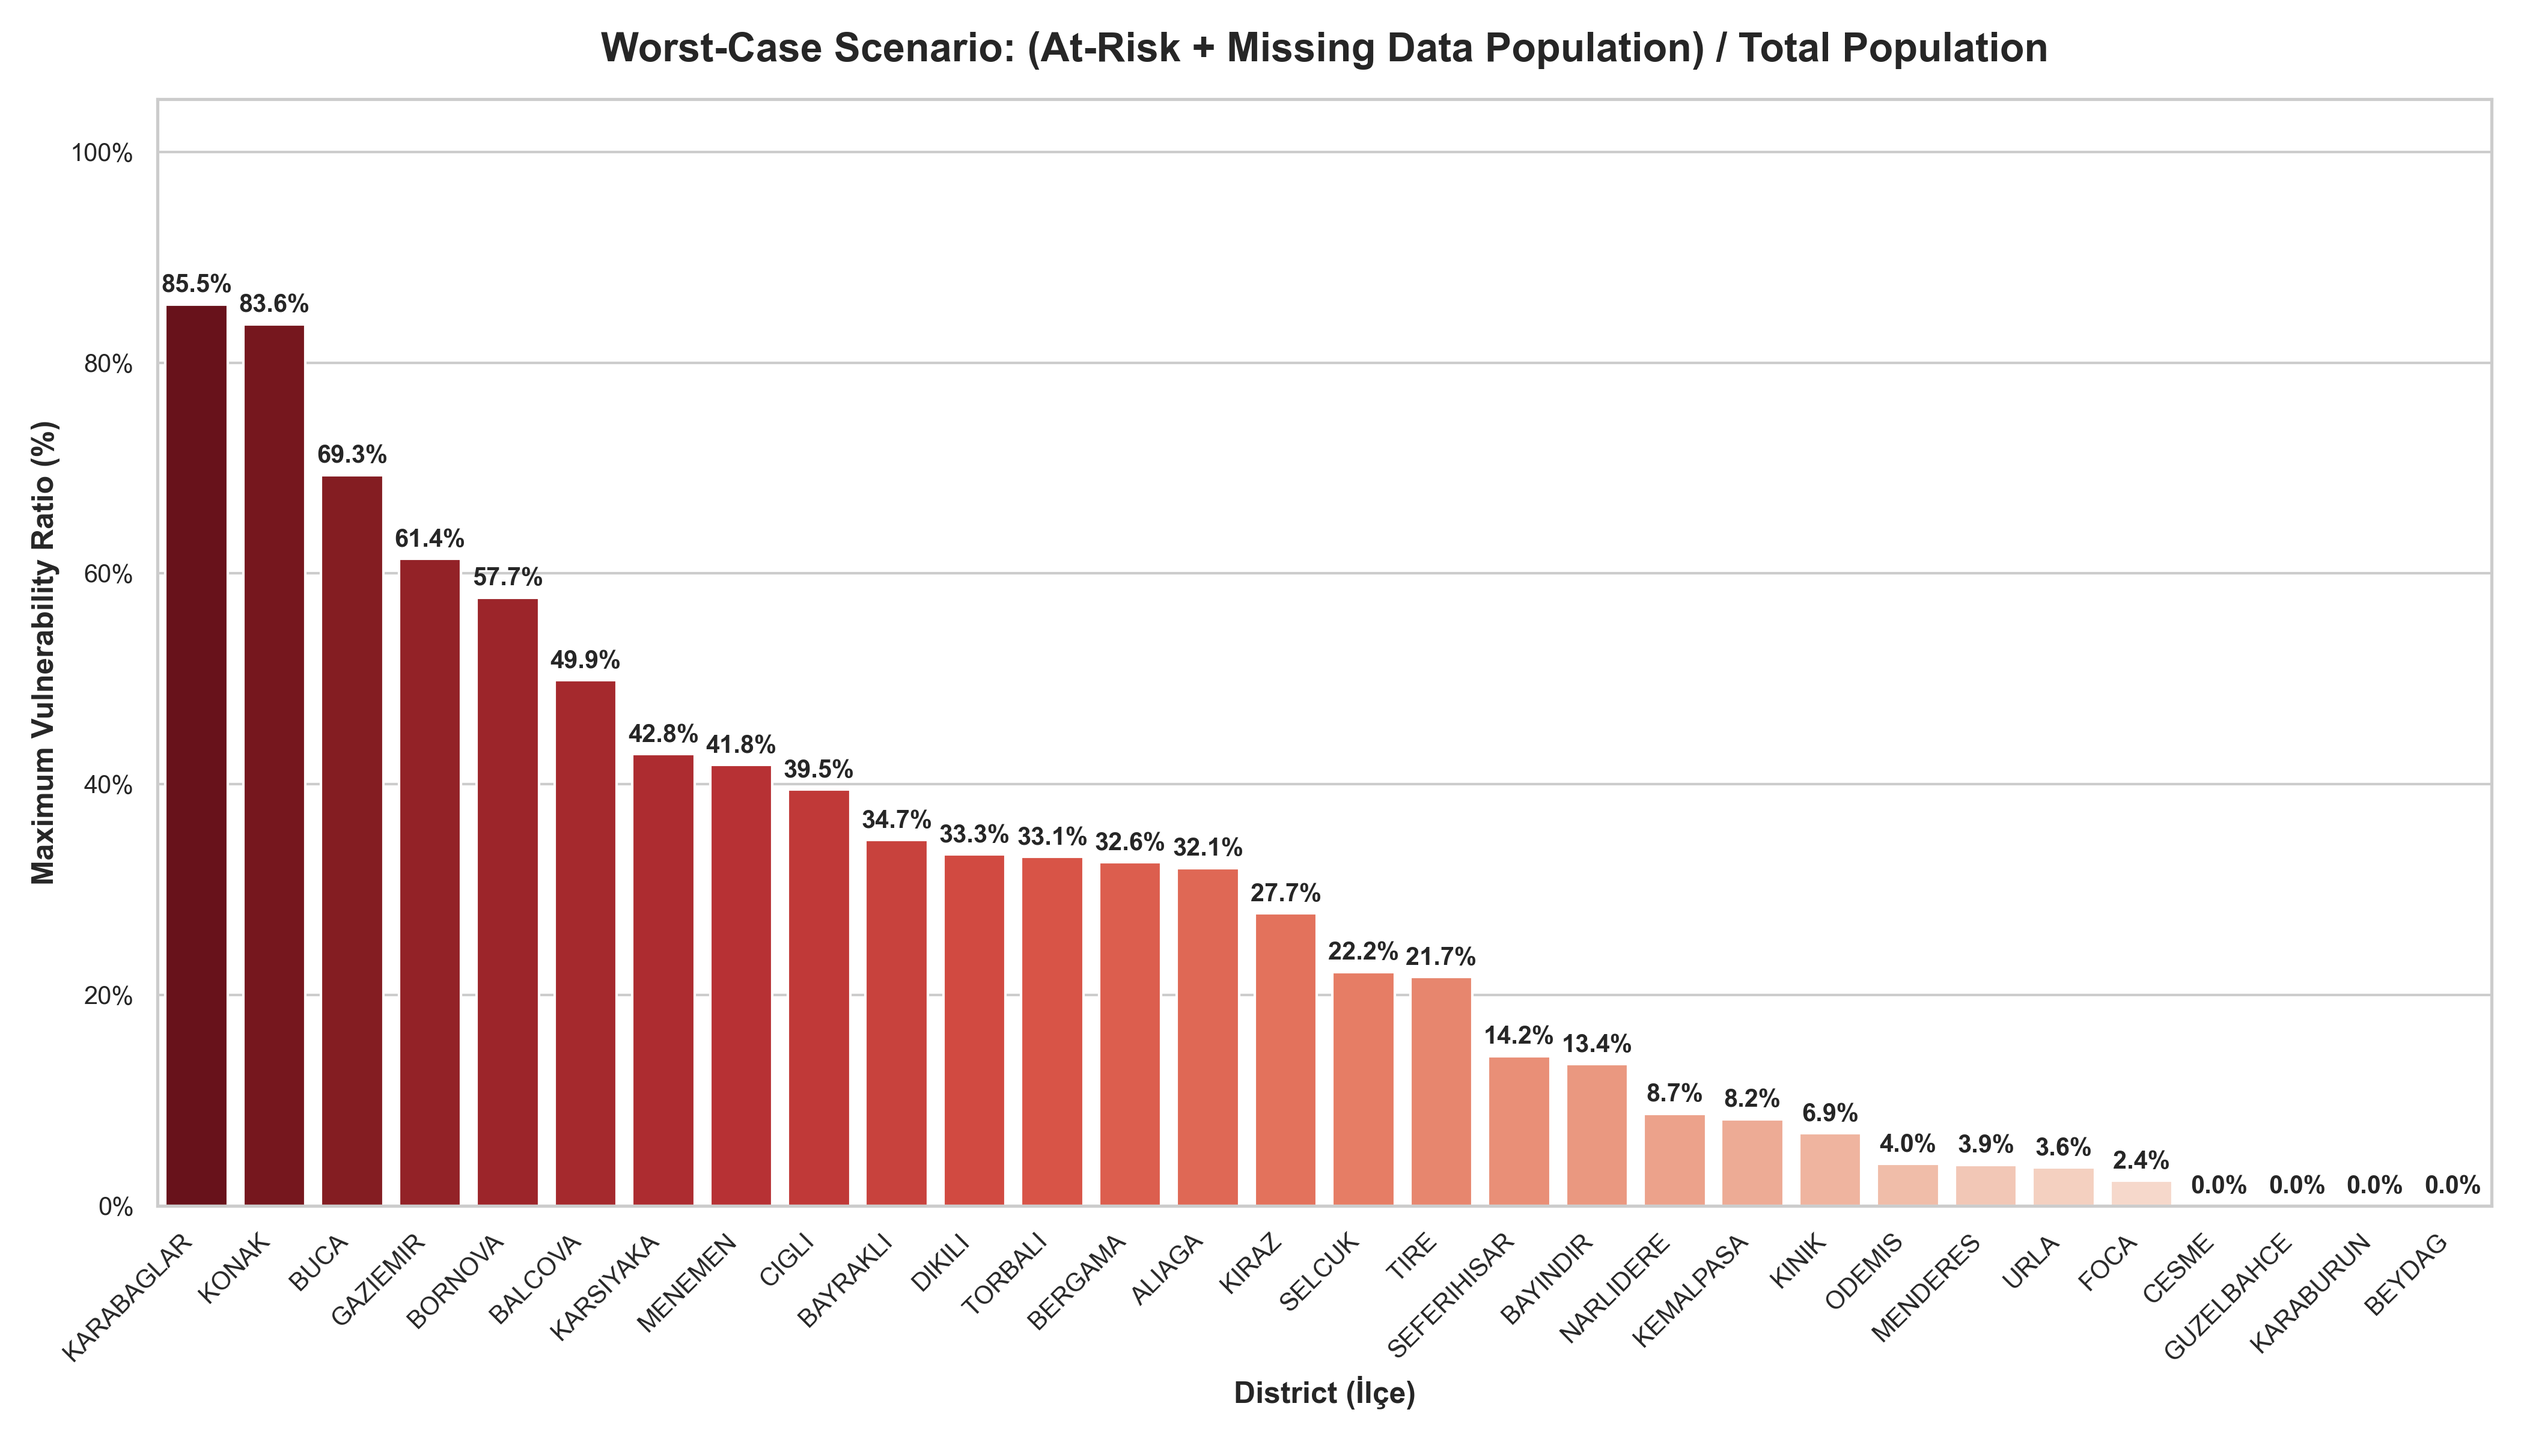
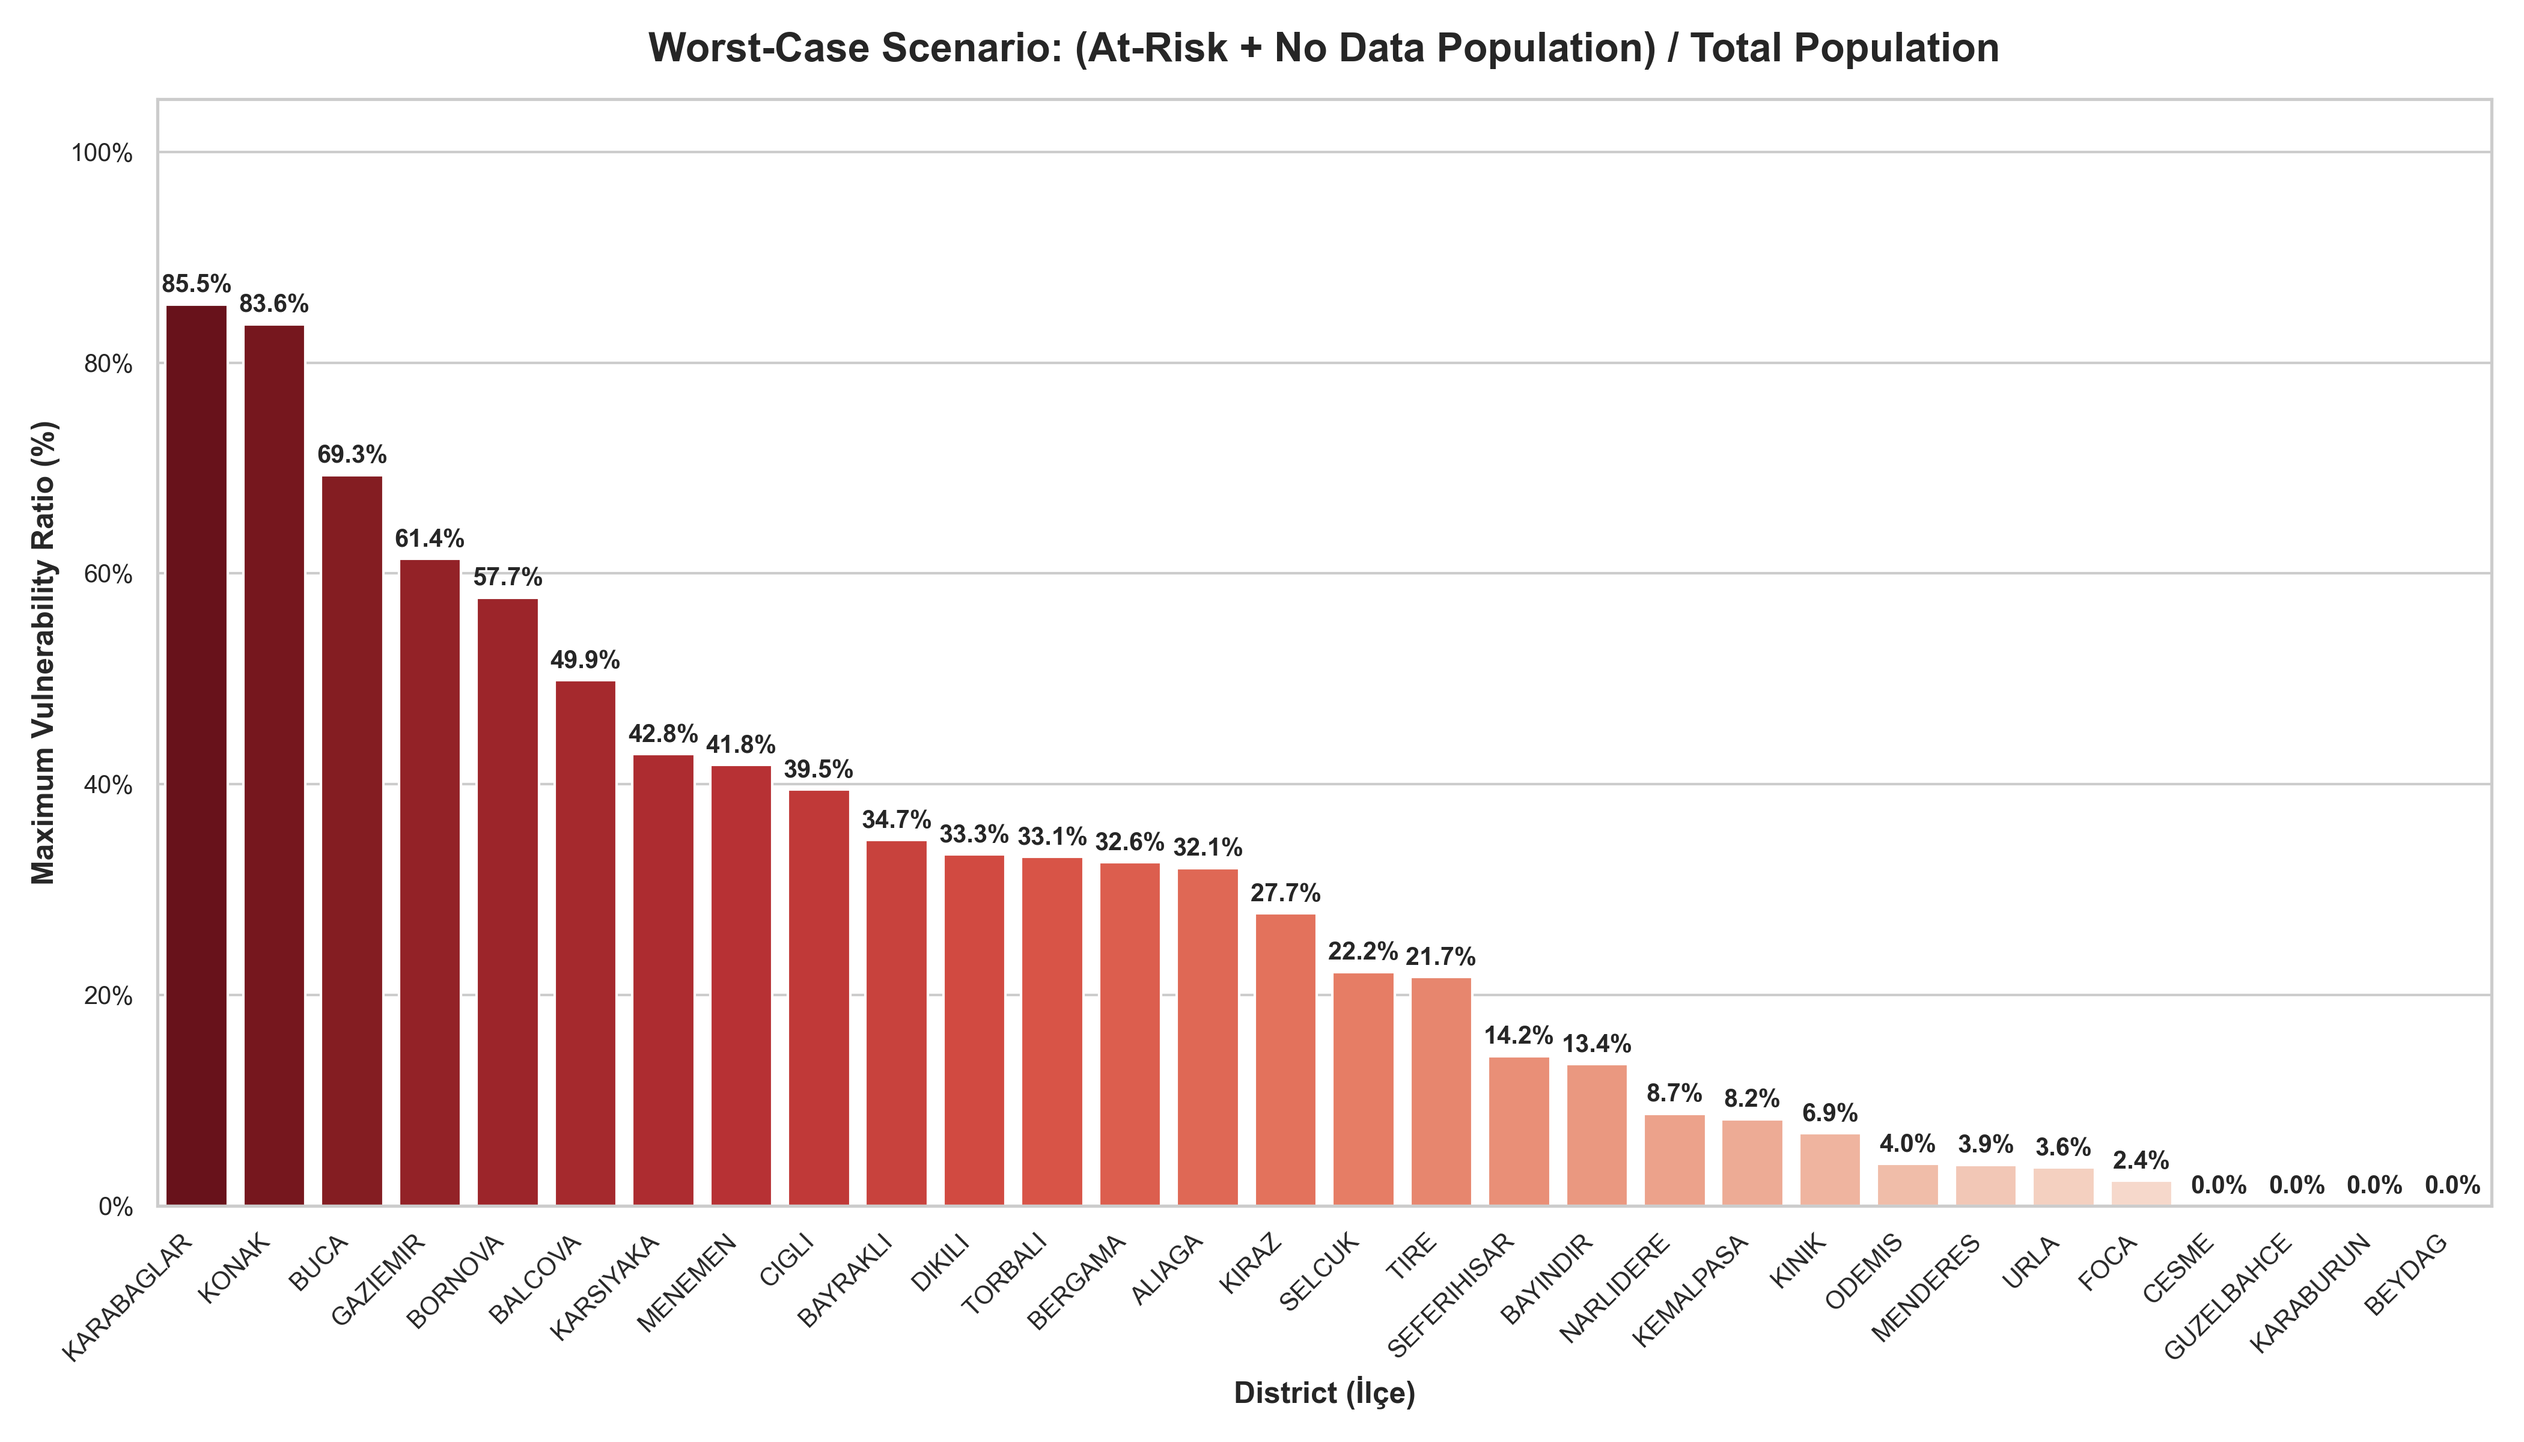
Add district surface area data and percentage deficit charts
This update integrates total district surface area data to provide a realistic scale for our area deficit analysis. By introducing new visualizations that compare the missing assembly areas to the total district sizes including a specific percentage calculation chart, we demonstrate that the required additional spaces are actually a microscopic and highly manageable fraction of each district, proving that resolving these assembly area shortages is a highly feasible urban planning task.

Changed region(s): [[0.2495, 0.0, 0.811, 0.0625]]

diff --git a/Population-Area_Analysis.py b/Population-Area_Analysis.py
@@ -419,9 +419,9 @@ matched_nufus = matched_nufus.reindex(columns=kategoriler, fill_value=0)
 # Get TOTAL population from the RAW population data (Ground Truth)
 raw_nufus = son_nufus.groupby('ILCE')['NUFUS'].sum().rename('Total_Raw_Population')
 
-# Combine them and calculate the "Unanalyzed / Missing" population
+# Combine them and calculate the Missing-No data population
 final_nufus = pd.concat([raw_nufus, matched_nufus], axis=1).fillna(0)
-final_nufus['Unanalyzed Population (No Data)'] = final_nufus['Total_Raw_Population'] - (
+final_nufus['No Data'] = final_nufus['Total_Raw_Population'] - (
     final_nufus['At-Risk Population (< 1.5 m²)'] + final_nufus['Safe Population (>= 1.5 m²)']
 )
 
@@ -429,7 +429,7 @@ final_nufus['Unanalyzed Population (No Data)'] = final_nufus['Total_Raw_Populati
 final_nufus = final_nufus.sort_values(by='Total_Raw_Population', ascending=False)
 
 # Select the 3 columns for plotting
-plot_cols = ['At-Risk Population (< 1.5 m²)', 'Safe Population (>= 1.5 m²)', 'Unanalyzed Population (No Data)']
+plot_cols = ['At-Risk Population (< 1.5 m²)', 'Safe Population (>= 1.5 m²)', 'No Data']
 plot_df = final_nufus[plot_cols]
 
 plt.figure(figsize=(16, 8))
@@ -567,11 +567,11 @@ plt.close()
 print("[SUCCESS] Fully safe districts completeness chart saved as '6_safe_districts_completeness.png'!")
 
 # ======================================================================
-# MAX VULNERABILITY RATIO: (AT-RISK + UNANALYZED) / TOTAL POPULATION
+# MAX VULNERABILITY RATIO: (AT-RISK + MISSING) / TOTAL POPULATION
 
 # Calculate the worst-case scenario risk ratio per district
 final_nufus['Max_Vulnerability_Ratio'] = (
-    (final_nufus['At-Risk Population (< 1.5 m²)'] + final_nufus['Unanalyzed Population (No Data)'])
+    (final_nufus['At-Risk Population (< 1.5 m²)'] + final_nufus['No Data'])
     / final_nufus['Total_Raw_Population']
 ) * 100
 
@@ -596,7 +596,7 @@ plt.ylim(0, 105) # Add a little breathing room at the top
 for i in ax.containers:
     ax.bar_label(i, fmt='%.1f%%', padding=3, fontsize=10, fontweight='bold')
 
-plt.title('Worst-Case Scenario: (At-Risk + Missing Data Population) / Total Population', fontsize=16, fontweight='bold', pad=15)
+plt.title('Worst-Case Scenario: (At-Risk + No Data Population) / Total Population', fontsize=16, fontweight='bold', pad=15)
 plt.xlabel('District (İlçe)', fontsize=12, fontweight='bold')
 plt.ylabel('Maximum Vulnerability Ratio (%)', fontsize=12, fontweight='bold')
 plt.xticks(rotation=45, ha='right', fontsize=10)
@@ -618,32 +618,82 @@ birlesik_veri['AREA_DEFICIT'] = (birlesik_veri['TARGET_AREA'] - birlesik_veri['A
 deficit_df = birlesik_veri.groupby('ILCE')['AREA_DEFICIT'].sum().reset_index()
 deficit_df = deficit_df[deficit_df['AREA_DEFICIT'] > 0].sort_values(by='AREA_DEFICIT', ascending=False)
 
+yuzolcum_df = pd.read_csv("izmir_ilceleri_yuzolcum_m2.csv")
+yuzolcum_df = yuzolcum_df.iloc[:, [0, 2]]
+yuzolcum_df.columns = ['ILCE', 'TOTAL_DISTRICT_AREA']
+yuzolcum_df['ILCE'] = yuzolcum_df['ILCE'].apply(fix_turkish_letters)
+yuzolcum_df['TOTAL_DISTRICT_AREA'] = pd.to_numeric(yuzolcum_df['TOTAL_DISTRICT_AREA'], errors='coerce').fillna(0)
+
+deficit_df = deficit_df.merge(yuzolcum_df, on='ILCE', how='left')
+fig, (ax1, ax2) = plt.subplots(2, 1, figsize=(15, 14), gridspec_kw={'height_ratios': [1, 1]})
+sns.set_theme(style="whitegrid")
+
+# PART 1 GRAPH
+# ==========================================
+sns.barplot(data=deficit_df, x='ILCE', y='AREA_DEFICIT', palette='YlOrRd_r', hue='ILCE', legend=False, ax=ax1)
+ax1.yaxis.set_major_formatter(plt.matplotlib.ticker.FuncFormatter(lambda x, p: format(int(x), ',')))
+
+for i in ax1.containers:
+    labels = [f"{int(v.get_height()):,}" for v in i]
+    ax1.bar_label(i, labels=labels, padding=5, fontsize=10, fontweight='bold', rotation=45)
+
+ax1.set_ylim(0, deficit_df['AREA_DEFICIT'].max() * 1.25)
+ax1.set_title('Part 1: Total Additional Assembly Area Needed (Target: 1.5 m²/person)', fontsize=16, fontweight='bold', pad=15)
+ax1.set_xlabel('') # Alt grafikte zaten yazacağı için burayı boş bırakıyoruz
+ax1.set_ylabel('Total Missing Area (m²)', fontsize=12, fontweight='bold')
+ax1.set_xticks(range(len(deficit_df['ILCE'])))
+ax1.set_xticklabels([]) # Üst grafikteki ilçe isimlerini gizleyip kalabalığı önlüyoruz
+
+# SECOND GRAPH PART 2
+# ==========================================
+sns.barplot(data=deficit_df, x='ILCE', y='TOTAL_DISTRICT_AREA', color='#1f77b4', ax=ax2)
+
+ax2.yaxis.set_major_formatter(plt.matplotlib.ticker.FuncFormatter(lambda x, p: format(int(x), ',')))
+
+for i in ax2.containers:
+    labels = [f"{int(v.get_height()):,}" for v in i]
+    ax2.bar_label(i, labels=labels, padding=5, fontsize=10, fontweight='bold', rotation=45)
+
+ax2.set_ylim(0, deficit_df['TOTAL_DISTRICT_AREA'].max() * 1.25)
+ax2.set_title('Part 2: Total District Surface Area (m²)', fontsize=16, fontweight='bold', pad=15)
+ax2.set_xlabel('District (İlçe)', fontsize=12, fontweight='bold')
+ax2.set_ylabel('Total District Area (m²)', fontsize=12, fontweight='bold')
+ax2.set_xticks(range(len(deficit_df['ILCE'])))
+ax2.set_xticklabels(deficit_df['ILCE'], rotation=45, ha='right', fontsize=11)
+
+plt.tight_layout()
+plt.savefig("Population-Area-Charts/8_additional_area_required.png", dpi=300)
+plt.close()
+print("[SUCCESS] Dual-chart analysis saved to '8_additional_area_required.png'!")
+
+# ======================================================================
+# 9. ADDITIONAL AREA AS PERCENTAGE OF TOTAL DISTRICT AREA
+
+deficit_df['DEFICIT_PERCENTAGE'] = (deficit_df['AREA_DEFICIT'] / deficit_df['TOTAL_DISTRICT_AREA']) * 100
+perc_df = deficit_df[deficit_df['TOTAL_DISTRICT_AREA'] > 0].sort_values(by='DEFICIT_PERCENTAGE', ascending=False)
 plt.figure(figsize=(14, 8))
 sns.set_theme(style="whitegrid")
 
-# Plot total missing area (Orange-Red gradient for severity)
 ax = sns.barplot(
-    data=deficit_df,
+    data=perc_df,
     x='ILCE',
-    y='AREA_DEFICIT',
-    palette='YlOrRd_r',
+    y='DEFICIT_PERCENTAGE',
+    palette='Reds_r',
     hue='ILCE',
     legend=False
 )
 
-plt.gca().yaxis.set_major_formatter(plt.matplotlib.ticker.FuncFormatter(lambda x, p: format(int(x), ',')))
+plt.gca().yaxis.set_major_formatter(plt.matplotlib.ticker.PercentFormatter(decimals=3))
 
 for i in ax.containers:
-    labels = [f"{int(v.get_height()):,}" for v in i]
-    ax.bar_label(i, labels=labels, padding=5, fontsize=9, fontweight='bold', rotation=45)
+    ax.bar_label(i, fmt='%.3f%%', padding=5, fontsize=10, fontweight='bold', rotation=45)
 
-plt.ylim(0, deficit_df['AREA_DEFICIT'].max() * 1.20)
-plt.title('Total Additional Assembly Area Needed by District (Target: 1.5 m²/person)', fontsize=16, fontweight='bold', pad=15)
+plt.ylim(0, perc_df['DEFICIT_PERCENTAGE'].max() * 1.25)
+plt.title('Extra Need Area as Percentage of Total District Area (%)', fontsize=16, fontweight='bold', pad=15)
 plt.xlabel('District (İlçe)', fontsize=12, fontweight='bold')
-plt.ylabel('Total Missing Area (m²)', fontsize=12, fontweight='bold')
+plt.ylabel('Deficit Percentage (%)', fontsize=12, fontweight='bold')
 plt.xticks(rotation=45, ha='right', fontsize=10)
-plt.yticks(fontsize=10)
 plt.tight_layout()
-plt.savefig("Population-Area-Charts/8_additional_area_required.png", dpi=300)
+plt.savefig("Population-Area-Charts/9_deficit_percentage.png", dpi=300)
 plt.close()
-print("[SUCCESS] Additional area required chart saved to '8_additional_area_required.png'!")
+print("[SUCCESS] Percentage chart saved to '9_deficit_percentage.png'!")
